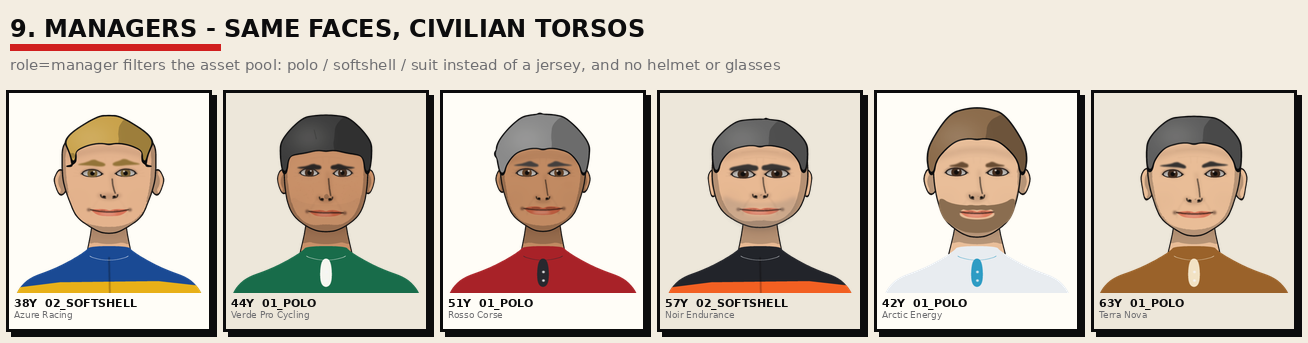
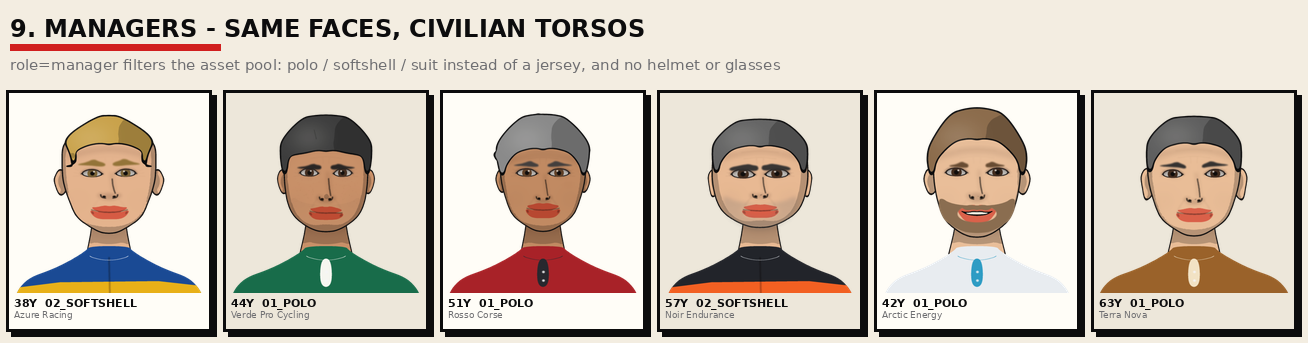
Refresh judged demo sheets for thicker pupil-width mouths
Pack 0.6.0 poster sheets after the lip-mass baker pass.

diff --git a/.cursor/skills/peloton-avatars/SKILL.md b/.cursor/skills/peloton-avatars/SKILL.md
@@ -165,7 +165,7 @@ the common weights. Slit defaults (`th` ~6, `bh` ~5) flatten the whole peloton. 
 narrower options may stay as a minority, still readable. Defaults live around
 `hw=25, th=11, bh=8.6, iris_r=11.2`.
 
-**Mouths** (`MOUTH_RECIPES`): corners sit **under the pupils** (`hw` around `EYE_DX` = 47, never above it). Closed lips need real meat — `upper` ~10–14, `lower` ~13–17. The baker must keep thickness through the philtrum; collapsing the centre to a slit reads as a thread even when the recipe is full. Variety is bow, smile, open/laugh, lift, skew, and upper/lower ratio, not more length. Open mouths still wrap the opening in lip meat. Retired ids keep `weight: 0`. Do not ship thread-wide mouths (`hw` above ~47, or closed `upper`/`lower` under ~10/12).
+**Mouths** (`MOUTH_RECIPES`): corners sit **under the pupils** (`hw` around `EYE_DX` = 47, never above it). Closed lips need real meat — `upper` ~10–14, `lower` ~13–17 (the baker scales these up and keeps ~40% thickness at the corners). A banana that tapers to two dots still reads as a thread. Lip fill must contrast with skin (`lip_rgb`); a skin-close tint leaves only the slit. Variety is bow, smile, open/laugh, lift, skew, and upper/lower ratio, not more length. Open mouths still wrap the opening in lip meat. Retired ids keep `weight: 0`. Do not ship thread-wide mouths (`hw` above ~47, or closed `upper`/`lower` under ~10/12).
 
 **Brows** (`BROW_RECIPES`): recipes must differ in **inner gap, length, thickness taper,
 arch and peak**, not just `th`/`arch` on the same polygon. `bake_brow` takes `inner` /
